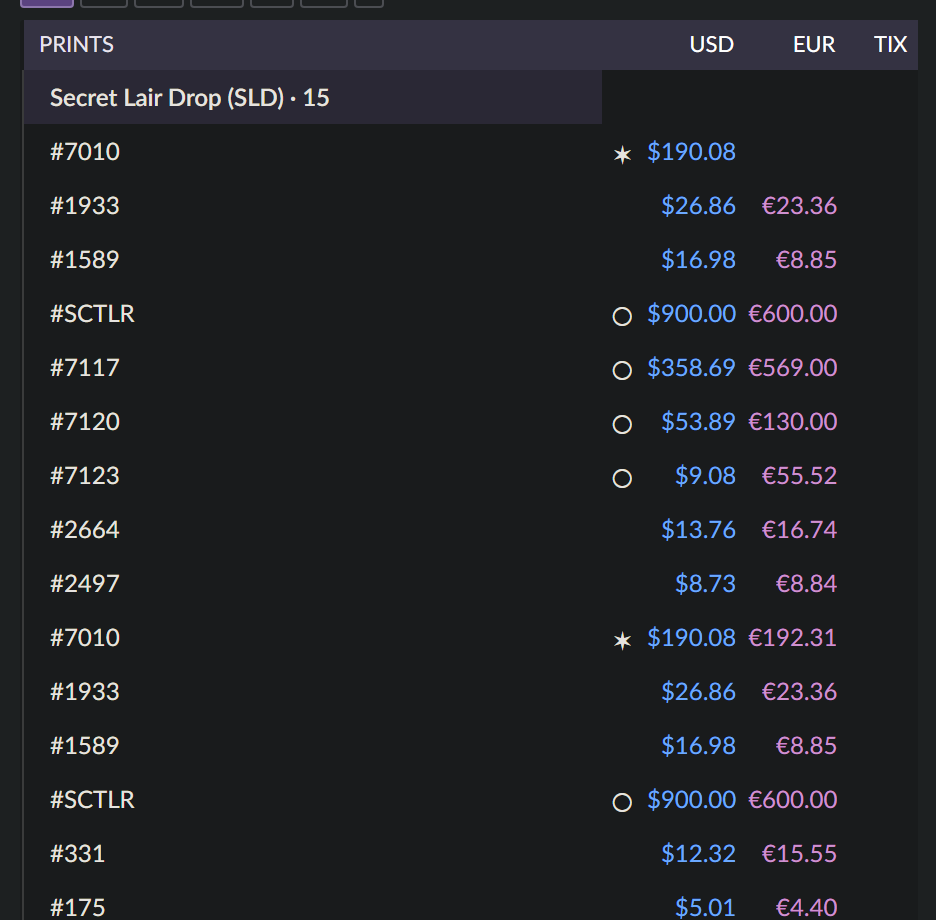
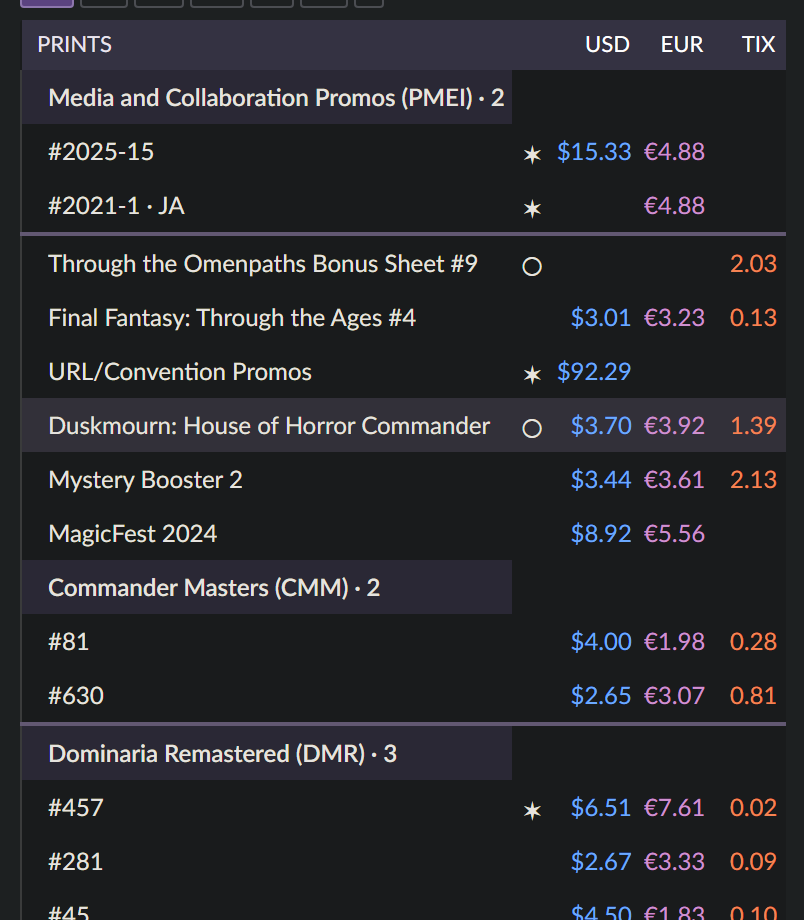
Two bugs, and both of them were in the tool
The reader asked the only question worth asking: did we find a bug, and are we fixing it.
The answer is that the extension had no bug in any of this. The pictures disagreed with
the product and the product was right.

One bug was found by looking at a picture. Ten printings appeared twice in the group they
belong to — #7010, #1933, #1589 and seven more — which reads as a table that adds what
Scryfall has already drawn. The cause was in the fixture: it sent each printing's API
address where the worker sends the address of the card's page, and the table decides
"has Scryfall already listed this?" by comparing that address against the rows on the
page. An API address matches no row, so every printing already on the page was added
again. The picture was at once faithful to a defect that does not exist and wrong about
the product, which no checking of the values would ever have found.

The second was the mirror of it. A search by oracle id appeared to return one printing,
which would have meant the extension's whole print grouping was broken against the live
API. It returns 88 printings of Counterspell. The single-printing answer came from asking
without unique=prints — what the fixture did, and what the worker does not do. The three
addresses that genuinely answer with one printing each are now written down in the tool,
so the next person does not lose an afternoon to them.

The fixture also now asks Scryfall for printings exactly as the worker does — by oracle
[…]

diff --git a/CHANGELOG.md b/CHANGELOG.md
@@ -143,6 +143,34 @@ Four things that were wrong only because nothing looked at the pictures:
   that meant "something has no size" and the length that means "cut it here" are two
   different checks, and the cut is printed when it happens.
 
+### Two bugs, and both of them were in the tool
+
+Worth stating plainly, because the question is the obvious one: **the extension had no bug
+in any of this.** The pictures disagreed with the product, and the product was right.
+
+One of the two was found by looking at a picture. Ten printings appeared twice in the
+group they belong to — `#7010`, `#1933`, `#1589` and seven more — which reads as a table
+that adds what Scryfall has already drawn. The cause was in the fixture, not the table: it
+sent each printing's API address where the worker sends the address of the card's *page*,
+and the table decides "has Scryfall already listed this?" by comparing that address with
+the rows on the page. An API address matches no row, so every printing already on the
+page was added again. The picture was simultaneously faithful to a defect that did not
+exist and wrong about the product — the worst kind of wrong, and one that no amount of
+checking the *values* would ever have found.
+
+The other was the mirror image: `oracleid:` search appeared to return one printing, which
+would have meant the extension's whole print grouping was broken against the live API. It
+returns 88 printings of Counterspell. The single-printing answer came from asking without
+`unique=prints`, which is what the fixture did and the worker does not. The three
+addresses that genuinely return one printing each are listed in the tool, so the next
+person does not spend an afternoon on them.
+
+And the check that found the first one had to be written twice. It keyed on
+`data-card-id` — which the duplicated row does not have, because that is exactly why it was
+duplicated. It passes over the defect it was written for. It now keys on the label a reader
+sees, and it was verified by breaking the fixture on purpose: the tool fails with the ten
+duplicates named.
+
 Tests: 1637 assertions pass across eight suites.
 
 ### The theme, in seven files

diff --git a/docs/CHROME_WEB_STORE_LISTING.md b/docs/CHROME_WEB_STORE_LISTING.md
@@ -1,4 +1,4 @@
-# Chrome Web Store listing — Scryfall Toolkit 0.60.0
+# Chrome Web Store listing — Scryfall Toolkit 0.61.0
 
 Everything here is written from the shipped code, so that the answers given in the store
 console match what the extension actually does. Where a field needs a decision from the

diff --git a/README.md b/README.md
@@ -1,4 +1,4 @@
-# Scryfall Toolkit 0.60.0
+# Scryfall Toolkit 0.61.0
 
 An independent browser extension for **Scryfall** and **Scryfall Tagger**: a shared card clipboard, tag panels on card pages, extra format legalities, a dark theme, and optional EDHREC and CardTrader data.
 
